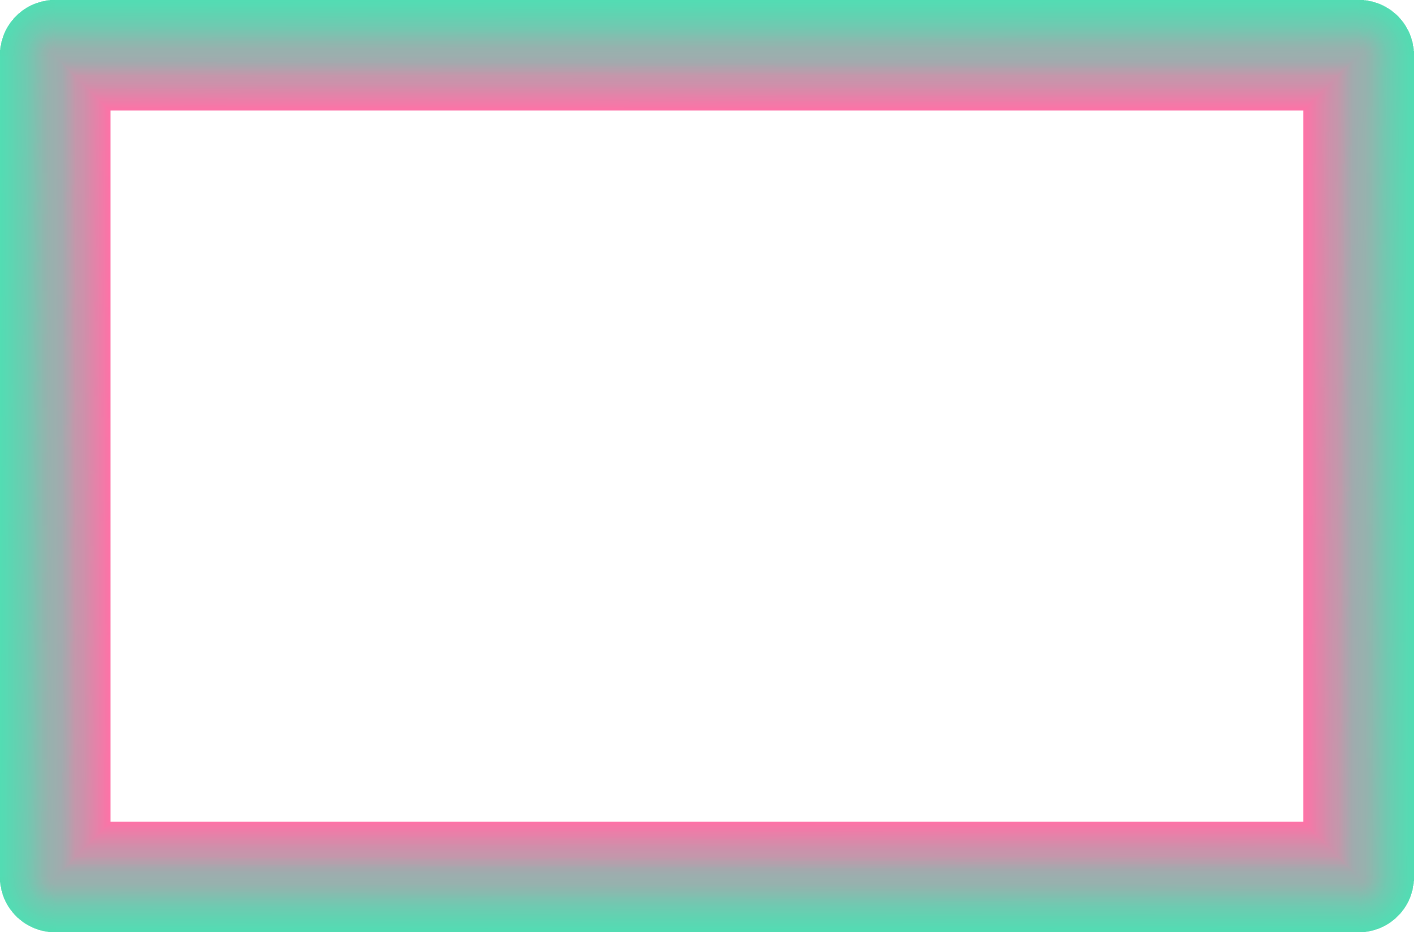
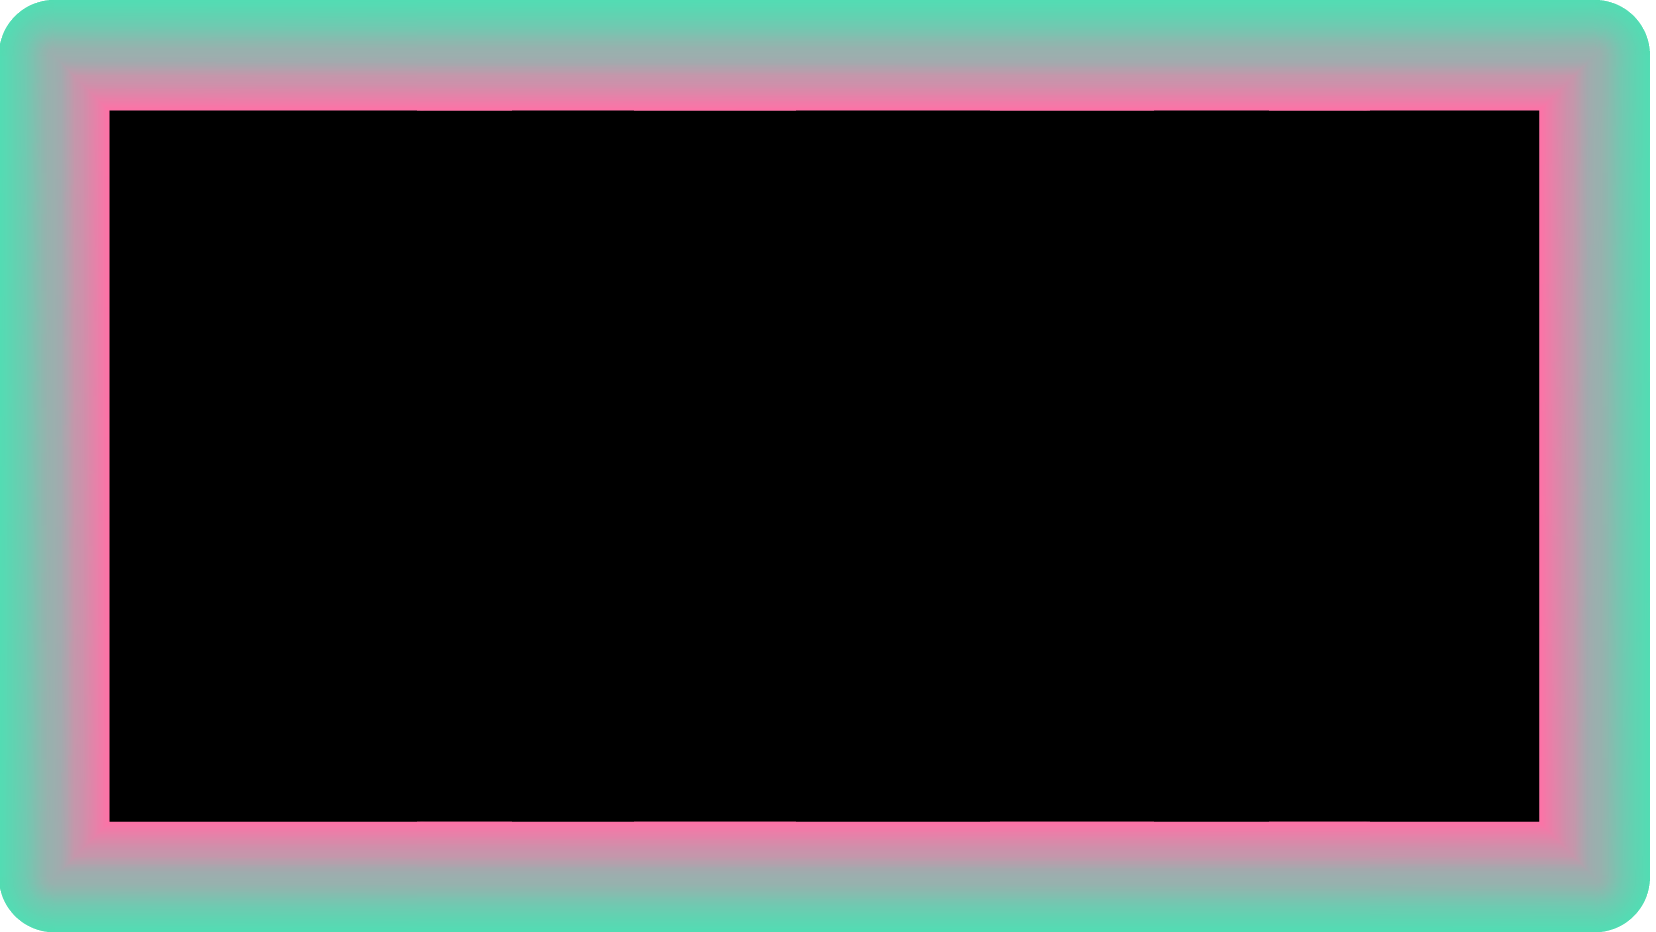
Adding choose video screen

diff --git a/app/js/store.js b/app/js/store.js
@@ -20,6 +20,7 @@ export class Store {
         function getInitialState() {
             return {
                 conf : opts.conf,
+                debug : false,
                 muted : false,
                 recordingTime : opts.conf.app.recording_time,
                 screen : opts.conf.app.default_screen,
@@ -27,11 +28,6 @@ export class Store {
                 swapVideo : true,
                 targetScript : null,
                 targetScripts : opts.conf.script,
-                targetVideos : opts.conf.target.map((target) => {
-                    const file = `${target.id}.mp4`;
-                    target.src = `${opts.conf.server.target_path}/${file}`;
-                    return target;
-                }),
                 targetVideo : null,
                 uploadVideo : true,
                 videoId : null,
@@ -66,16 +62,29 @@ export class Store {
                     return find(state.targetScripts, ['name', state.targetScript]);
                 },
 
-                targetVideo(state) {
+                targetVideo(state, getters) {
                     if (!state.targetVideo) {
                         return null;
                     }
 
-                    return find(state.targetVideos, ['id', state.targetVideo]);
+                    return find(getters.targetVideos, ['id', state.targetVideo]);
+                },
+
+                targetVideos(state) {
+                    // Return target videos, and replace with the 'debug'
+                    // version if that flag is set
+                    return state.conf.target.map((target) => {
+                        const id = target.debug && state.debug ? target.debug : target.id;
+                        const file = `${id}.mp4`;
+                        target.src = `${opts.conf.server.target_path}/${file}`;
+                        return target;
+                    });
                 }
             },
 
             mutations : {
+                debug: (state) => state.debug = true,
+
                 disableSwap: (state) => state.swapVideo = false,
 
                 disableUpload: (state) => state.uploadVideo = false,

diff --git a/app/js/components/step-choosevideo.vue b/app/js/components/step-choosevideo.vue
@@ -1,26 +1,24 @@
 <template>
-    <div class="recorder__step">
-        <div class="recorder__content">
-            <h2 class="recorder__headline">
-                Kies een beroemdheid
-            </h2>
+    <div class="step"
+         flair="stars">
+        <h1 class="step__headline">Kies een beroemdheid</h1>
 
-            <ul class="mediagrid">
-                <li v-for="(video, index) in videos">
-                    <el-button
-                        v-bind:focused="focused === index"
-                        type="video"
-                        v-bind:text="video.name"
-                        v-on:click="selectVideo(video.id)">
-                        <video class="mediagrid__video"
-                               v-bind:data-id="video.id"
-                               v-on:mouseenter="playVideo(video.id)"
-                               muted playsinline
-                               v-bind:src="video.src"></video>
-                    </el-button>
-                </li>
-            </ul>
-        </div>
+        <ul class="mediagrid">
+            <li v-for="(video, index) in videos"
+                class="mediagrid__item">
+                <video class="mediagrid__video"
+                       v-bind:data-id="video.id"
+                       v-on:mouseenter="playVideo(video.id)"
+                       muted playsinline
+                       v-bind:src="video.src"></video>
+
+                <el-button
+                    v-bind:focused="focused === index"
+                    type="small"
+                    v-bind:text="video.name"
+                    v-on:click="selectVideo(video.id)"></el-button>
+            </li>
+        </ul>
     </div>
 </template>
 
@@ -28,7 +26,7 @@
     export default {
         computed : {
             videos() {
-                return this.$store.state.targetVideos;
+                return this.$store.getters.targetVideos;
             }
         },
 

diff --git a/app/scss/_mediagrid.scss b/app/scss/_mediagrid.scss
@@ -1,24 +1,34 @@
 .mediagrid {
     list-style: none;
-    display: grid;
-    grid-gap: 1rem;
-    grid-template-columns: repeat(3, 1fr);
+    display: flex;
+    flex-wrap: wrap;
 
-    li, button, &__video, &__textbutton {
-        @include wh(100%);
+    &__item {
+        background-image: url('../static/img/border-video.png');
+        background-repeat: no-repeat;
+        background-position: center center;
+        background-size: contain;
+        @include flex-center;
+        width: calc(100% / 3);
+        height: calc(100% / 3);
+        border: 1rem solid transparent;
+        padding: 2.5rem;
+        position: relative;
     }
 
     &__video {
-        object-fit: cover;
-        max-height: 25vh;
+        @include wh(100%);
     }
 
-    &__textbutton {
-        background: $c-5;
-        color: white;
-        text-align: center;
-        padding: 3rem;
-        border-radius: 1rem;
-        font-size: 4rem;
+    .el-button {
+        height: 10rem;
+        bottom: -1rem;
+        left: -2rem;
+        z-index: 1;
+    }
+
+    .el-button__text {
+        font-size: 2.5rem;
+        top: .5rem;
     }
 }

diff --git a/app/js/components/el-button.vue b/app/js/components/el-button.vue
@@ -3,9 +3,7 @@
         v-bind:class="classes"
         v-bind:focused="focused"
         v-on:click="click">
-        <slot></slot>
-        <span v-if="text"
-              class="el-button__text">{{text}}</span>
+        <span class="el-button__text">{{text}}</span>
     </button>
 </template>
 
@@ -16,11 +14,7 @@
         computed : {
             classes() {
                 const classes = ['el-button'];
-
-                if (this.type) {
-                    classes.push('el-button--' + this.type);
-                }
-
+                classes.push('el-button--' + this.type);
                 return classes;
             }
         },

diff --git a/app/scss/_step.scss b/app/scss/_step.scss
@@ -38,6 +38,14 @@
         top: 4rem;
     }
 
+    &[flair="stars"] &__headline {
+        @include transform-center-horizontal;
+        top: 2rem;
+        font-size: 12rem;
+        width: 100%;
+        text-align: center;
+    }
+
     &__rabbit {
         width: 43rem;
     }
@@ -76,5 +84,13 @@
         font-family: $font-text;
         color: $c-1;
         line-height: 1.75;
+    }
+
+    .mediagrid {
+        position: absolute;
+        top: 14rem;
+        bottom: 2rem;
+        left: 3rem;
+        right: 3rem;
     }
 }
